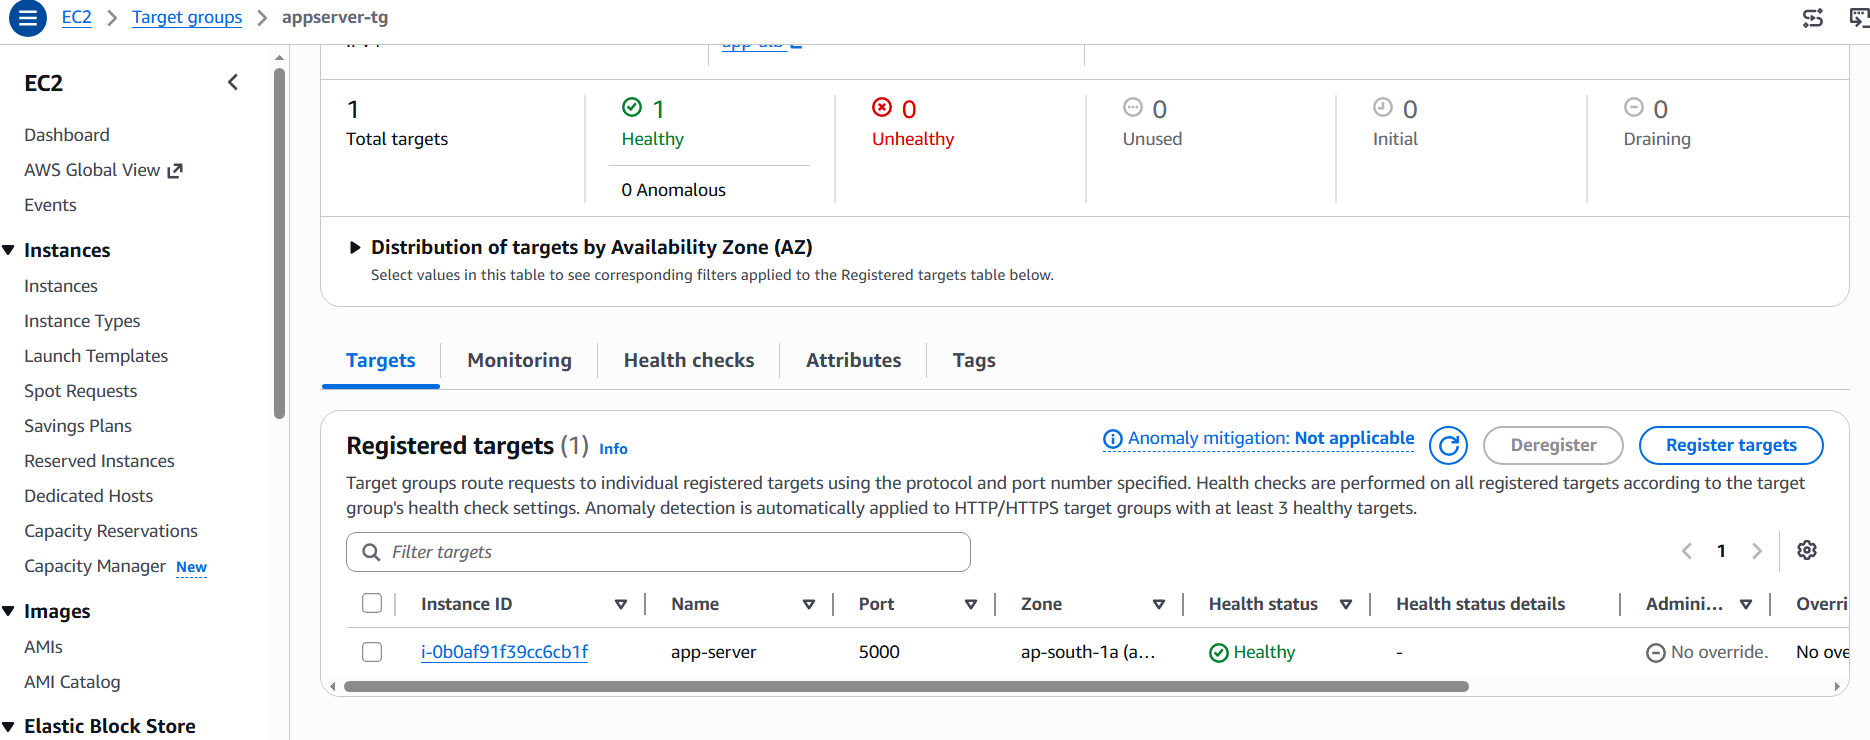
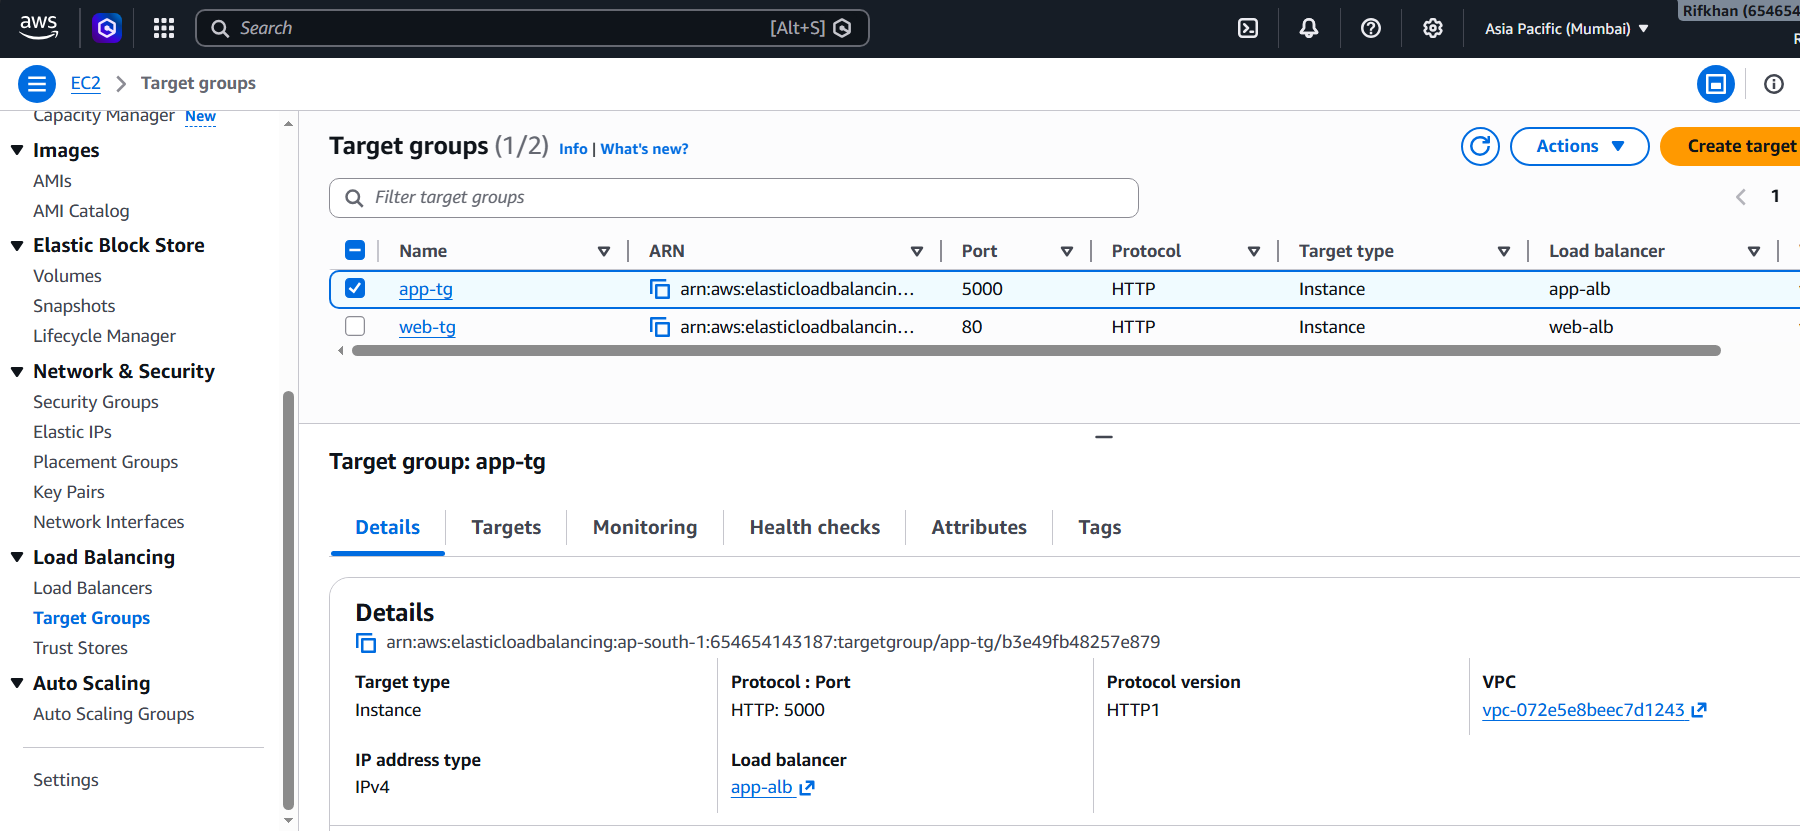
complete project

diff --git a/README.md b/README.md
@@ -326,23 +326,30 @@ This project includes production-level scalability components:
 
 ---
 
-<!-- ### Live Application -->
+## Live Application
 
-<!-- ![Live App](docs/images/live-app-home.png) -->
+![Live App](docs/images/live-app-home.png)
+![Live App](docs/images/live-app-home-1.png)
 
-<!-- ### Login Page -->
+## Register Page
 
-<!-- ![Login Page](docs/images/login-page.png) -->
+![Login Page](docs/images/register-page.png)
 
-### Route 53 Domain
+## Inside Pages
+
+![Login Page](docs/images/dashboard.png)
+![Login Page](docs/images/create_new_category-1.png)
+![Login Page](docs/images/create_new_category-2.png)
+
+## Route 53 Domain
 
 ![Route 53](docs/images/route53-domain.png)
 
-### ACM SSL Certificate
+## ACM SSL Certificate
 
 ![ACM Certificate](docs/images/acm-certificate.png)
 
-### Frontend Public ALB
+## Frontend Public ALB
 
 ![Frontend ALB](docs/images/frontend-alb.png)
 ![Frontend ALB](docs/images/frontend-alb-1.png)
@@ -351,37 +358,55 @@ This project includes production-level scalability components:
 
 ![Frontend ALB](docs/images/frontend-alb-sg.png)
 
-### Backend Internal ALB
+## Frontend & Backend AMI
 
-![Backend Internal ALB](docs/images/backend-internal-alb.png)
-
-### Backend Internal TargetGroup
-
-![Backend Internal ALB](docs/images/backend-internal-alb-tg.png)
-
-### Backend Internal ALB Security Group
-
-![Backend Internal ALB](docs/images/backend-internal-alb-sg.png)
-
-### Frontend Auto Scaling Group
-
-![Frontend ASG](docs/images/frontend-asg.png)
+![Frontend ASG](docs/images/AMIs-availabe.png)
 
 ### Frontend Auto Scaling Group EC2 Secuity Group
 
 ![Frontend ASG](docs/images/frontend-asg-sg.png)
 
-### Backend Auto Scaling Group
+### Frontend Launch Tamplate
 
-![Backend ASG](docs/images/backend-asg.png)
+![Frontend ASG](docs/images/frontend-lt.png)
+
+## Frontend Auto Scaling Group
+
+![Frontend ASG](docs/images/frontend-asg.png)
+![Frontend ASG](docs/images/web-asg-2.png)
+![Frontend ASG](docs/images/web-asg-3.png)
+
+## Backend Internal ALB
+
+![Backend Internal ALB](docs/images/backend-internal-alb.png)
+
+### Backend Internal ALB Security Group
+
+![Backend Internal ALB](docs/images/backend-internal-alb-sg.png)
 
 ### Backend Auto Scaling Group EC2 Security Group
 
 ![Backend ASG](docs/images/backend-asg-sg.png)
 
+### Backend Internal TargetGroup
+
+![Backend Internal ALB](docs/images/backend-internal-alb-tg.png)
+
+### Backend Internal Launch Tamplate
+
+![Backend Internal ALB](docs/images/backend-internal-lt.png)
+
+## Backend Auto Scaling Group
+
+![Backend ASG](docs/images/app-asg-1.png)
+![Backend ASG](docs/images/app-asg-2.png)
+![Backend ASG](docs/images/app-asg-3.png)
+
 ### RDS MySQL
 
 ![RDS MySQL](docs/images/rds-mysql.png)
+![RDS MySQL](docs/images/rds-mysql-sg.png)
+![RDS MySQL](docs/images/rds-mysql-sbg.png)
 
 ### RDS MySQL SubnetGroup
 
@@ -400,15 +425,20 @@ This project includes production-level scalability components:
 
 ### GitHub Actions Backend Deployment
 
-![Backend CI/CD](docs/images/github-actions-backend-success.png)
+![Backend CI/CD](docs/images/backend-cicd-1.png)
+![Backend CI/CD](docs/images/backend-cicd-2.png)
+![Backend CI/CD](docs/images/backend-cicd-3.png)
+![Backend CI/CD](docs/images/backend-cicd-4.png)
 
 ### PM2 Backend Process
 
-![PM2 Backend](docs/images/pm2-backend.png)
+![PM2 Backend](docs/images/pm2.png)
+![PM2 Backend](docs/images/pm2-1.png)
+![PM2 Backend](docs/images/pm2-2.png)
 
 ### Nginx Reverse Proxy Configuration
 
-![Nginx Config](docs/images/nginx-config.png)
+![Nginx Config](docs/images/nginx.png)
 
 ---
 